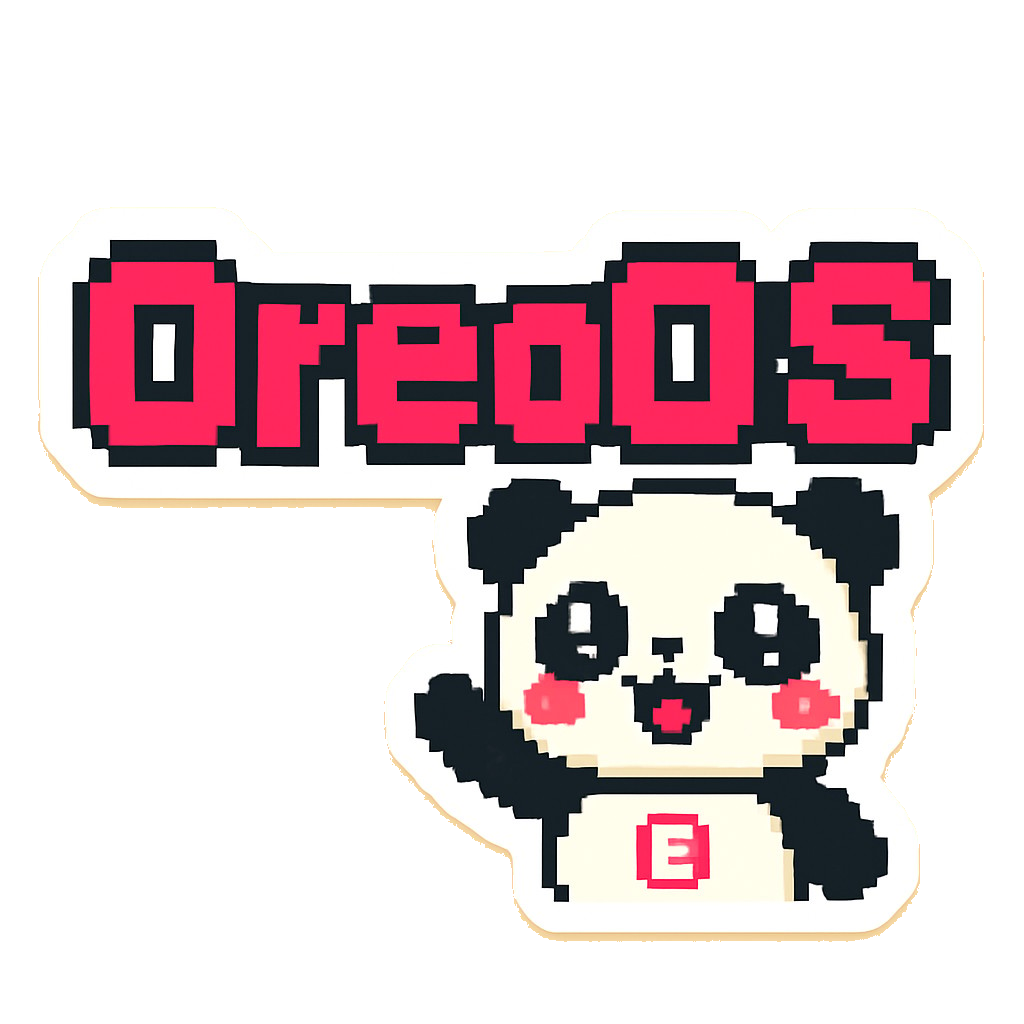
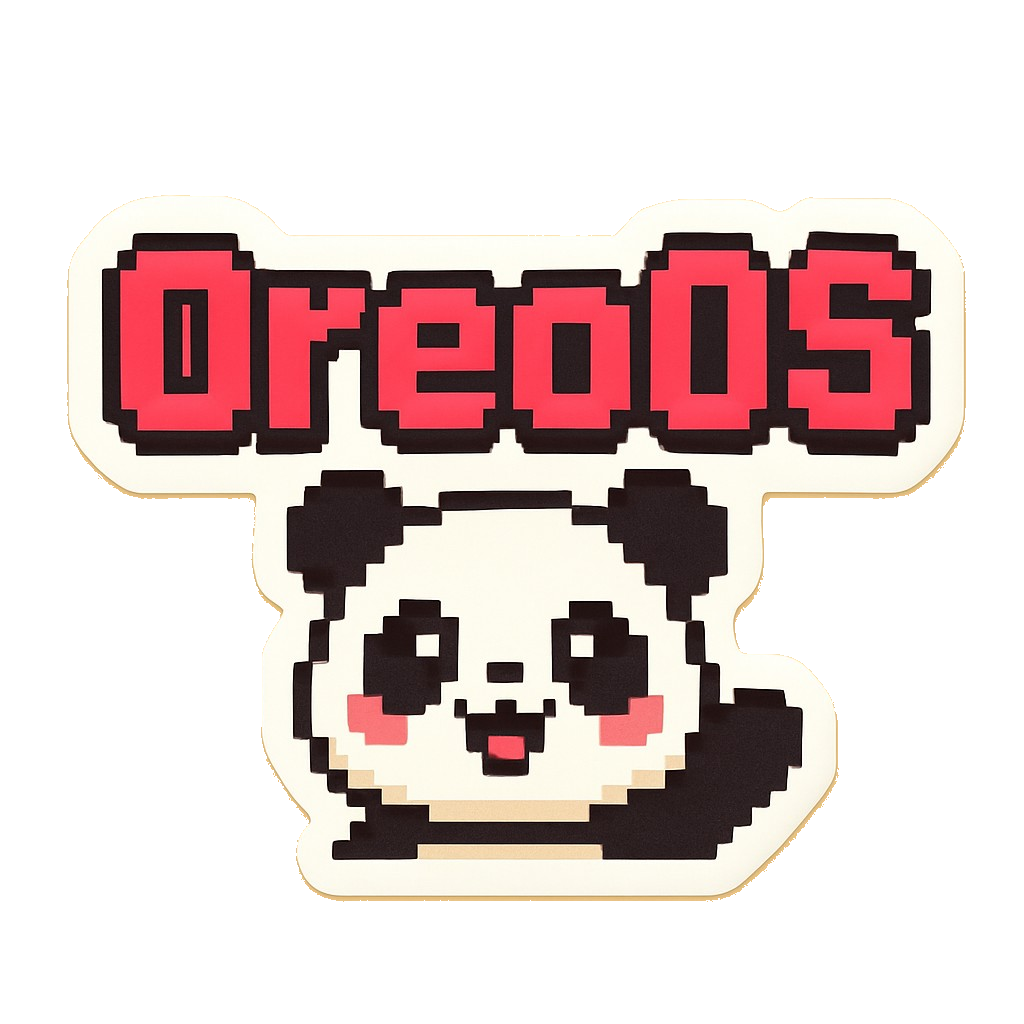
added sticker sheet for the octocat others

diff --git a/prompts/stickers/14_commit.md b/prompts/stickers/14_commit.md
@@ -3,8 +3,8 @@
 **Asset name:** `commit`
 **Output size:** 1024×1024
 **Target file:** `stickers/14_commit.png`
-**Vibe:** the GitHub contribution graph cell as a trophy — panda celebrating one green square.
+**Vibe:** open-source love — panda hugging the GitHub Octocat mascot.
 
 ## Prompt
 
-pixel art sticker design: cute panda character with big sparkly eyes and a wide proud smile, white and cream fur with black patches, pink cheeks rgb(255,93,104), small red E-badge on chest, proudly holding up a chunky pixel-art bright green square commit cell in one paw rgb(60,200,100) with a thick dark outline and a small white inner highlight, a small horizontal row of three smaller pale green commit squares next to it, simple symmetrical front-facing pose, the panda and all the green squares fully contained inside a clean rounded white sticker shape with a thick crisp white border, completely flat solid uniform warm cream background outside the sticker shape with absolutely no decoration sparkles particles shadows gradients or artifacts beyond the white border, vibrant warm celebration colours, pixel art cartoon style, thick dark outline, cute kawaii style, ready for die-cut, square crop, no text, no watermark
+pixel art sticker design: cute panda character standing on the left with big sparkly eyes and a wide warm smile, white and cream fur with black patches, pink cheeks rgb(255,93,104), small red E-badge on chest, both arms wrapped affectionately around a cute pixel-art Octocat cat-octopus character standing on the right (the Octocat has a chubby grey cat body with cat ears and a friendly smile, big round eyes, and six short tentacles instead of legs in dark grey curling around the base, drawn in the same chunky kawaii pixel-art style as the panda) — the panda and the Octocat are hugging each other side by side with cheerful expressions, a small chunky pixel-art bright green commit square rgb(60,200,100) with a thick dark outline floating between them just above their heads as a tiny accent, simple symmetrical front-facing pose, the panda the Octocat and the commit square all contained inside a clean rounded white sticker shape with a thick crisp white border, completely flat solid uniform warm cream background outside the sticker shape with absolutely no decoration sparkles particles shadows gradients or artifacts beyond the white border, vibrant warm celebration colours, pixel art cartoon style, thick dark outline, cute kawaii style, ready for die-cut, square crop, no text, no watermark

diff --git a/prompts/stickers/15_esp32.md b/prompts/stickers/15_esp32.md
@@ -7,4 +7,4 @@
 
 ## Prompt
 
-pixel art sticker design: cute panda character with big bright eyes and a wide cheerful smile, white and cream fur with black patches, pink cheeks rgb(255,93,104), small red E-badge on chest, both paws wrapped affectionately around a chunky pixel-art black ESP32 microcontroller chip with a silver metal RF shield on top, the chip clearly square-shaped with tiny gold pins along the edges, the text "ESP32" rendered in small blocky pixel-art letters in bright teal on the silver shield, a tiny glowing teal LED dot on the chip board, simple symmetrical front-facing pose, the panda and the chip fully contained inside a clean rounded white sticker shape with a thick crisp white border, completely flat solid uniform warm cream background outside the sticker shape with absolutely no decoration sparkles particles shadows gradients or artifacts beyond the white border, vibrant warm celebration colours, pixel art cartoon style, thick dark outline, cute kawaii style, ready for die-cut, square crop, only the text "ESP32" appears anywhere in the image, no other text, no watermark
+pixel art sticker design: cute panda character with big bright eyes and a wide cheerful smile, white and cream fur with black patches, pink cheeks rgb(255,93,104), small red E-badge on chest, both paws hugging an iconic ESP32-WROOM-32 module shaped like a tall rectangle in portrait orientation — the module has a flat silver metallic RF shield covering the top two-thirds (drawn with chunky pixel-art shading in light grey and silver tones), beneath the shield a small dark green PCB strip with two tiny gold antenna meander traces and a printed PCB antenna at the top edge, gold castellated pin pads along both left and right side edges drawn as small gold rectangles, the text "ESP32" rendered in small blocky pixel-art letters in dark grey directly on the silver shield as a printed marking, simple symmetrical front-facing pose with the module held centered in front of the panda, the panda and the ESP32 module fully contained inside a clean rounded white sticker shape with a thick crisp white border, completely flat solid uniform warm cream background outside the sticker shape with absolutely no decoration sparkles particles shadows gradients or artifacts beyond the white border, vibrant warm celebration colours, pixel art cartoon style, thick dark outline, cute kawaii style, ready for die-cut, square crop, only the text "ESP32" appears anywhere in the image, no other text, no watermark

diff --git a/prompts/stickers/13_oreoos.md b/prompts/stickers/13_oreoos.md
@@ -7,4 +7,4 @@
 
 ## Prompt
 
-pixel art sticker design: the wordmark text "OreoOS" rendered in big chunky blocky 8-bit pixel-art letters in bright pink rgb(255,93,104) with a thick dark outline, the letters arranged on a single horizontal line and clearly readable, a small cute panda character peeking from beside the wordmark with big sparkly eyes and a wide happy smile, white and cream fur with black patches, pink cheeks rgb(255,93,104), small red E-badge on chest, one paw raised in a small wave, simple symmetrical layout, the wordmark and the panda all contained inside a clean rounded white sticker shape with a thick crisp white border, completely flat solid uniform warm cream background outside the sticker shape with absolutely no decoration sparkles particles shadows gradients or artifacts beyond the white border, vibrant warm celebration colours, pixel art cartoon style, thick dark outline, cute kawaii style, ready for die-cut, square crop, only the text "OreoOS" appears anywhere in the image, no other text, no watermark
+pixel art sticker design: the wordmark text "OreoOS" rendered in big bold chunky blocky 8-bit pixel-art letters in bright pink rgb(255,93,104) with a thick dark outline, the letters arranged on a single horizontal line PERFECTLY CENTERED in the middle of the sticker as the main focal element of the composition, all six letters O-r-e-o-O-S clearly readable and the same height, a small cute panda character face peeking up from directly below the wordmark with big sparkly eyes and a wide happy smile, white and cream fur with black patches, pink cheeks rgb(255,93,104), only the panda's head and shoulders visible, one paw raised in a small wave, symmetrical centered layout with the wordmark and panda stacked vertically on the vertical axis of the sticker, the wordmark and the panda all contained inside a clean rounded white sticker shape with a thick crisp white border, completely flat solid uniform warm cream background outside the sticker shape with absolutely no decoration sparkles particles shadows gradients or artifacts beyond the white border, vibrant warm celebration colours, pixel art cartoon style, thick dark outline, cute kawaii style, ready for die-cut, square crop, only the text "OreoOS" appears anywhere in the image, no other text, no watermark
